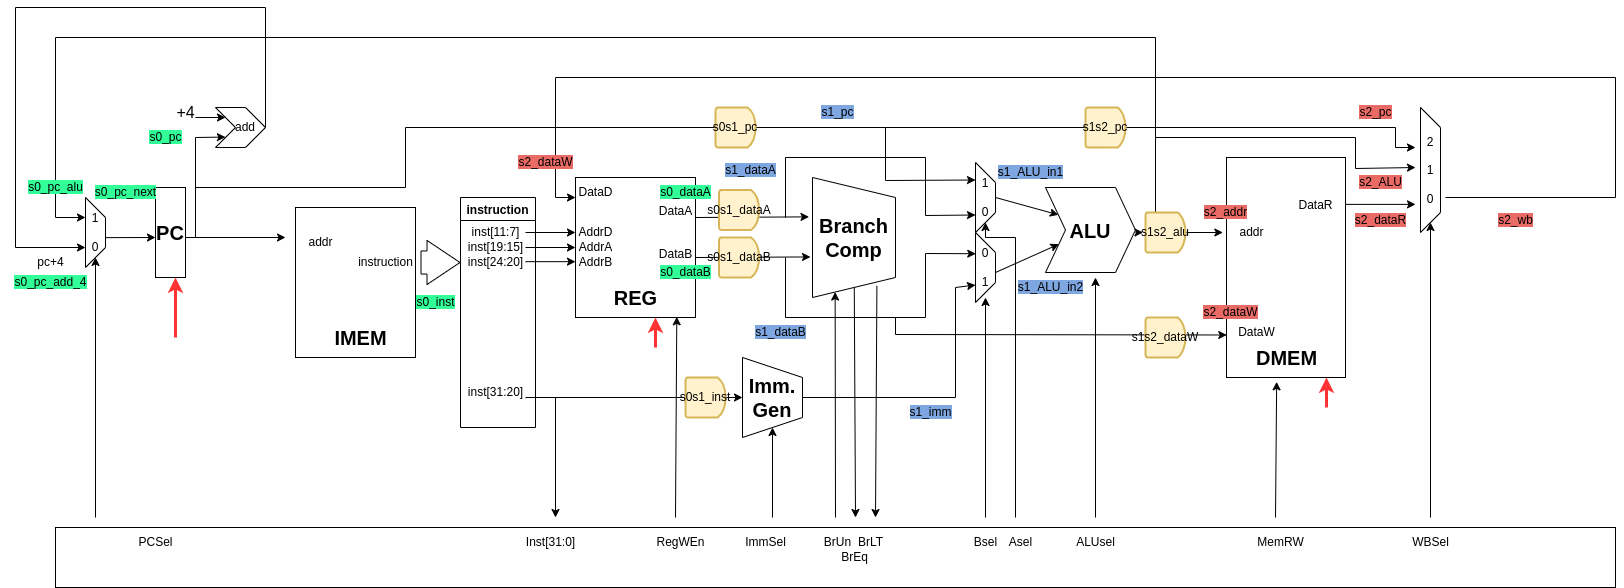
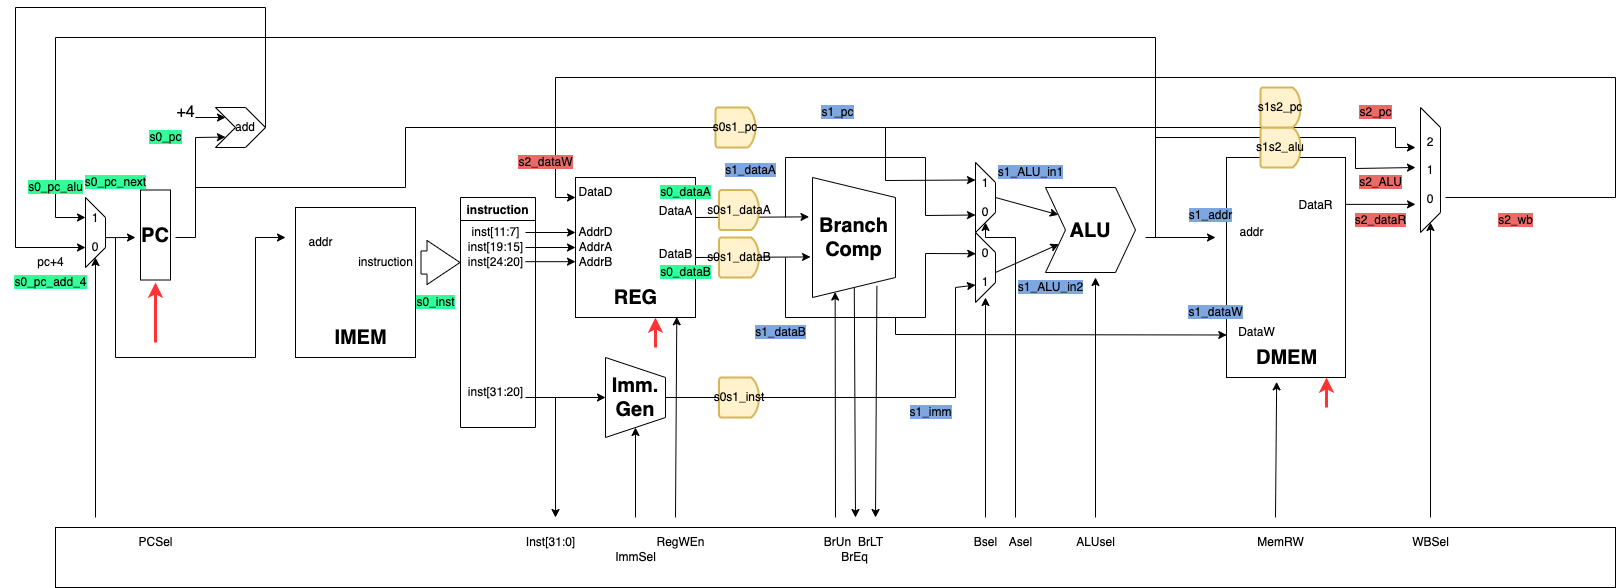
Updated checkoff 1 pipeline diagram (#5)
* updated ALUTestVectorTestbench.v and ALUTestbench.py script for shifting variable masking

* Added workFlow documentation and updated README

* fixed README.md markdown rendering issue

* updated new README for checkpoint 2

* updated checkoff 1 notes with Ken: Redrawn the pipeline diagram

diff --git a/README.md b/README.md
@@ -27,16 +27,23 @@ You can find documentations of this processor in [doc](doc) folder.
 
 ## Roadmap
 ### Checkpoint 1
-
-- [ ] The RISC-V opcode compatible ALU has been implemented.
+- [x] The RISC-V opcode compatible ALU has been implemented.
 
 - [x] The testvector generator script written in python has been implemented.
 
-- [ ] The early stage of pipeline structure has been drawn.
-
+- [x] The early stage of pipeline structure has been drawn.
 
 ### Checkpoint 2
-TODO
+- [ ] Control and Status Register (CSR)
+
+- [ ] Testbench files, have they passed the test?
+
+- [ ] Updated pipeline structure -- redraw the plot
+
+- [ ] Assertions in the verilog modules
+
+### Checkpoint 3
+- [ ] TODO
 
 ## License
 MIT

diff --git a/doc/meetings/meetingsAndCheckoffs.md b/doc/meetings/meetingsAndCheckoffs.md
@@ -1,3 +1,9 @@
+# Check off with Ken 27 Oct 2023
+- [x] Redraw the pipeline diagram
+    -   [x] PC should be in line with IMEM, since IMEM is synchronous.
+    -   [x] It is better to place IMM GEN before register to cut critical path length.
+    -   [x] DMEM should be in line with other registers.
+
 # Notes 24 Oct 2023
 
 ## Objective
